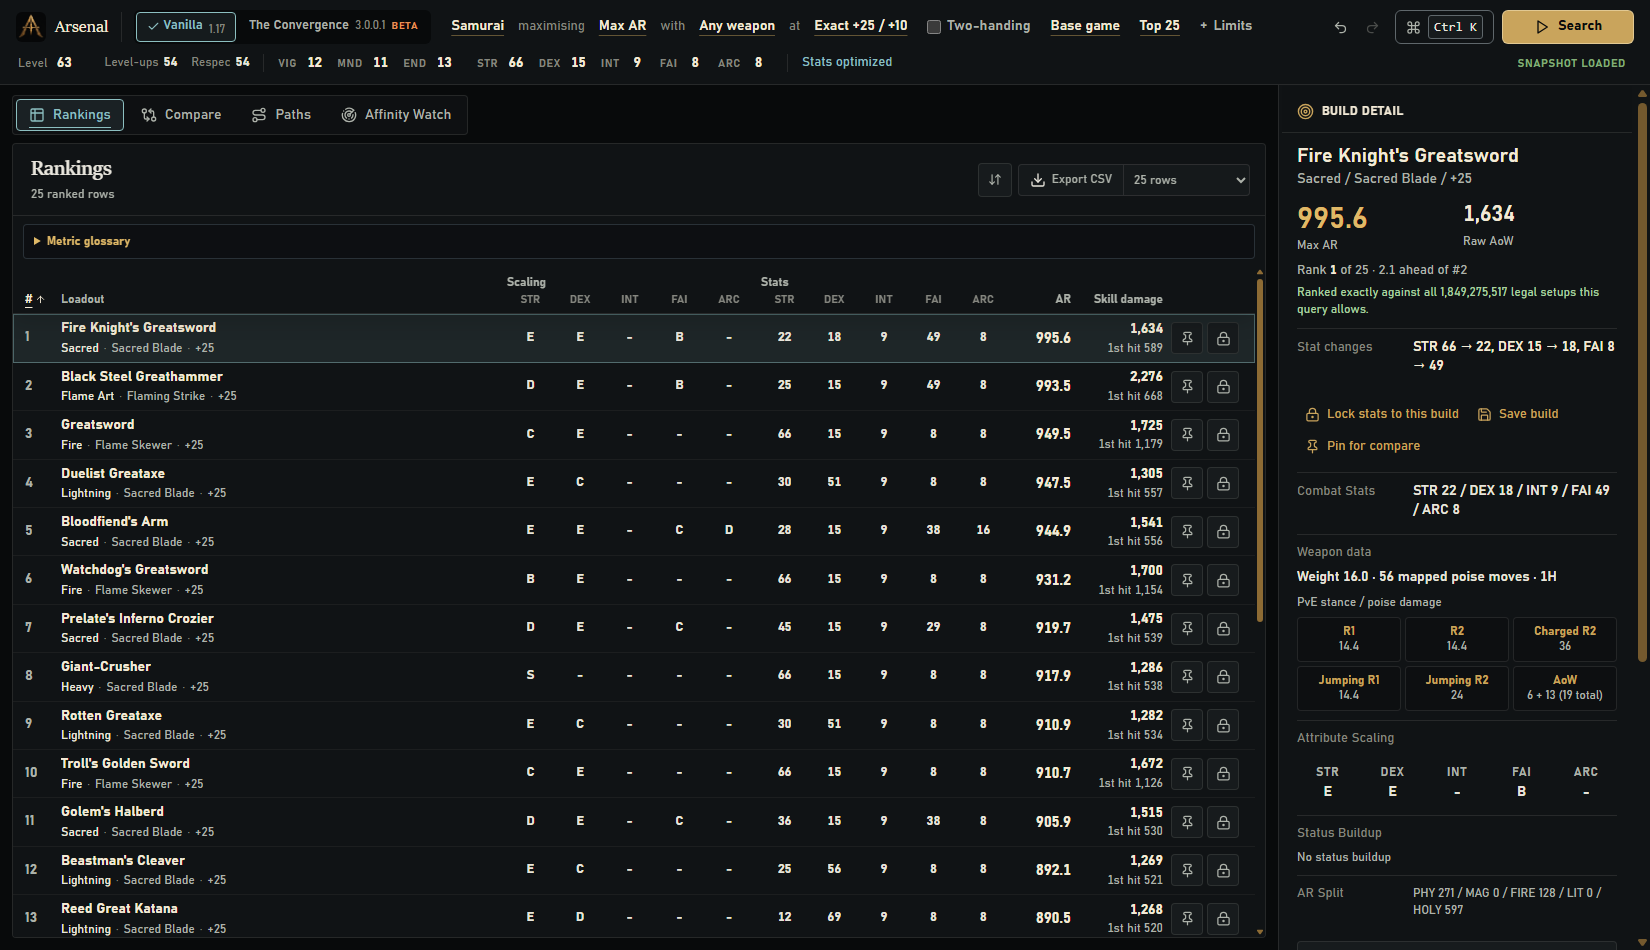
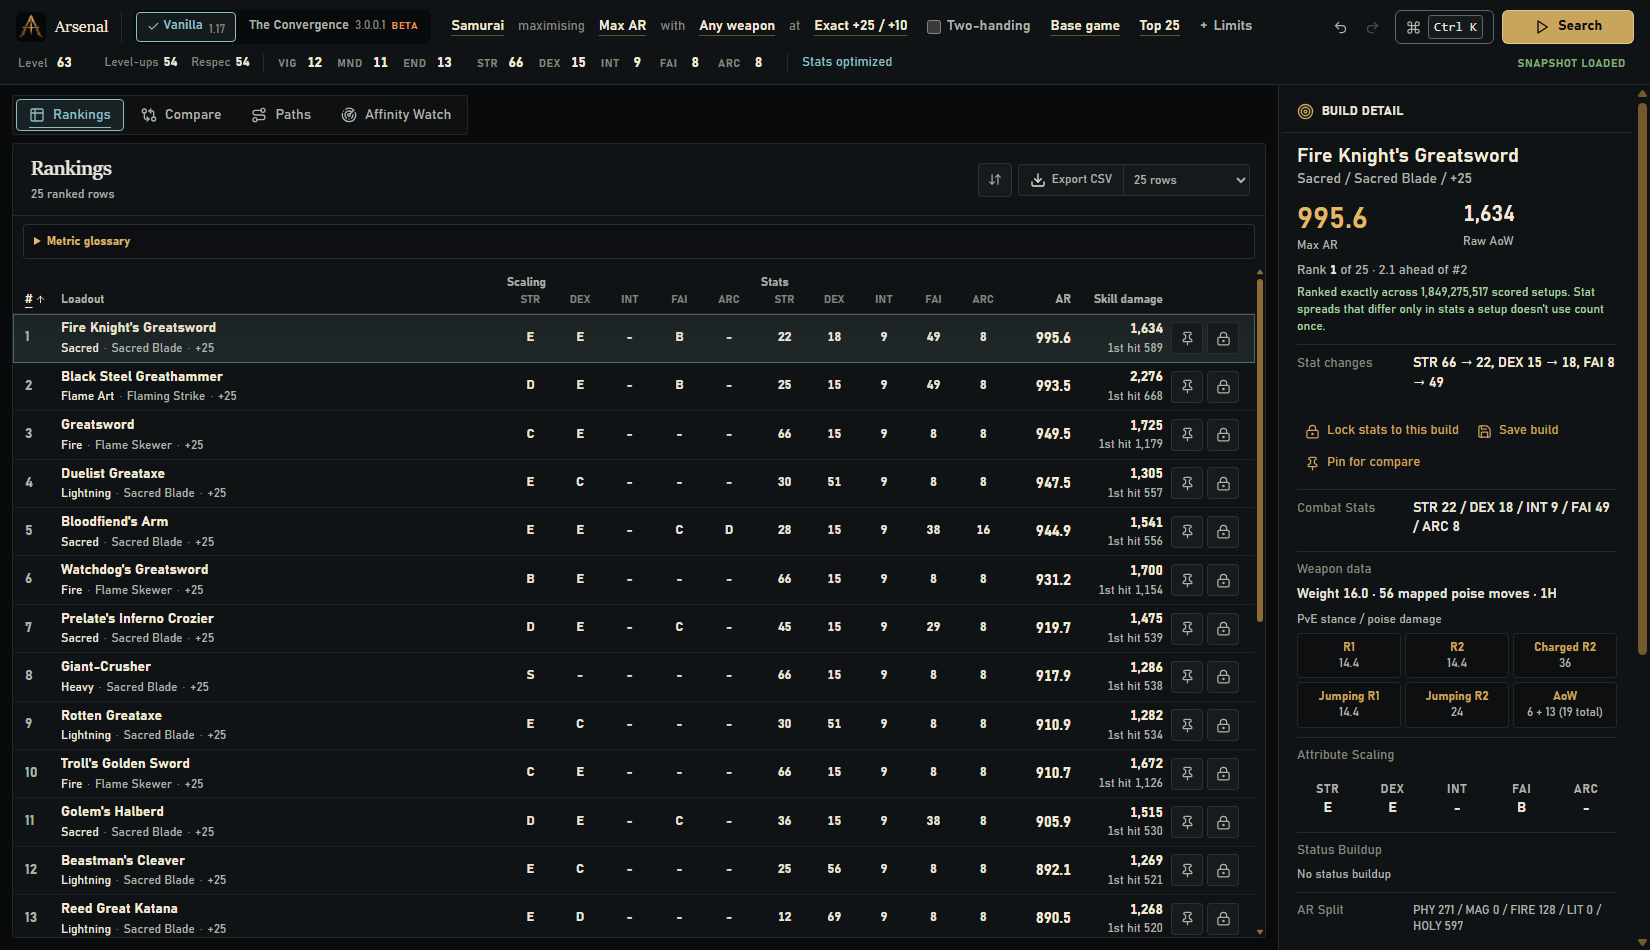
Prepare v0.17.2 with honest rank and setup-count claims (#23)
Build Detail shows a rank only for search results, so a saved build loaded on its own is no longer called best for its query. The setup count reads as scored setups and says beside it that stat spreads differing only in stats a setup doesn't use count once. Rows are matched to the previous search by upgrade as well, so unchanged results show no rank movement. Why this build? calls two builds tied only when their values print the same. A profile's query is restored after the profile it was left for failed to load, and retrying a failed load keeps the query. Prepare synchronized v0.17.2 versions, release documentation and README screenshots; the optimizer, bundled data and scoring model are unchanged.

Validation: exact-head CI 37160175955 passed all six jobs, and the release executable passed the packaged smoke test at 0.17.2.

diff --git a/apps/desktop/src/lib/state.ts b/apps/desktop/src/lib/state.ts
@@ -33,7 +33,7 @@ export interface DesktopState {
   rows: SolvedBuildDto[];
   /** Objective the current rows were ranked by; null when they did not come from a search. */
   rowsObjective: ObjectiveId | null;
-  /** Legal setups the search behind the current rows ranked; null when they did not come from one. */
+  /** Scored setups the search behind the current rows ranked; null when they did not come from one. */
   rowsSetups: number | null;
   /** The ranking a search replaced, so rows can show how far they moved. */
   rankBaseline: { objective: ObjectiveId; rows: SolvedBuildDto[] } | null;
@@ -215,7 +215,10 @@ export const useDesktopStore = create<DesktopState>()((set, get) => ({
       const profileQueries = switching
         ? { ...state.profileQueries, [state.request.profileId]: { request: state.request, lockedStatMode: state.lockedStatMode } }
         : state.profileQueries;
-      const remembered = switching ? profileQueries[profileId] : undefined;
+      // A failed load leaves no catalog; the profile it was left for still gets its query back.
+      // Loading the profile already shown is a retry, which keeps the query being edited.
+      const sameProfile = state.request.profileId === profileId;
+      const remembered = sameProfile ? undefined : profileQueries[profileId];
       const profileName = (id: string) => state.profiles.find((entry) => entry.profile.id === id)?.profile.displayName ?? id;
       return ({
       ...invalidateAllJobs(state),
@@ -224,9 +227,10 @@ export const useDesktopStore = create<DesktopState>()((set, get) => ({
       catalogStatus: "loading",
       catalogError: null,
       profileQueries,
-      lockedStatMode: remembered?.lockedStatMode ?? false,
+      lockedStatMode: remembered?.lockedStatMode ?? (sameProfile && state.lockedStatMode),
       loadoutSelectionRevision: state.loadoutSelectionRevision + 1,
-      request: remembered ? applyProfileRules(remembered.request, rules) : applyProfileRules({
+      request: remembered ? applyProfileRules(remembered.request, rules)
+        : sameProfile ? applyProfileRules(state.request, rules) : applyProfileRules({
         ...state.request,
         profileId,
         lockStr: null, lockDex: null, lockInt: null, lockFai: null, lockArc: null,
@@ -251,7 +255,7 @@ export const useDesktopStore = create<DesktopState>()((set, get) => ({
       pathSignature: null,
       affinityPayload: null,
       affinitySignature: null,
-      notices: switching ? [{
+      notices: switching || remembered ? [{
         scope: "global",
         tone: "info",
         message: remembered

diff --git a/apps/desktop/src/lib/state.test.ts b/apps/desktop/src/lib/state.test.ts
@@ -456,6 +456,29 @@ describe("desktop result lifecycle", () => {
     expect(back.notices[0].message).toBe("Restored your vanilla query. Search to rank it again.");
   });
 
+  it("restores a profile's query after the profile it was left for failed to load", () => {
+    useDesktopStore.getState().setProfiles([catalog("vanilla").dataManifest, catalog("convergence").dataManifest]);
+    useDesktopStore.setState({ catalog: catalog("vanilla"), profileQueries: {},
+      request: { ...defaultRequest, weaponName: "Uchigatana", lockDex: 40 } });
+    useDesktopStore.getState().beginProfileSwitch("convergence");
+    useDesktopStore.getState().setCatalogFailure("Convergence failed to load");
+
+    useDesktopStore.getState().beginProfileSwitch("vanilla");
+    expect(useDesktopStore.getState().request).toMatchObject({ profileId: "vanilla", weaponName: "Uchigatana", lockDex: 40 });
+  });
+
+  it("keeps the query being edited when the same profile's load is retried", () => {
+    useDesktopStore.getState().setProfiles([catalog("vanilla").dataManifest]);
+    useDesktopStore.setState({ catalog: null, profileQueries: {}, lockedStatMode: true,
+      request: { ...defaultRequest, weaponName: "Uchigatana", lockDex: 40, objective: "max_ar_plus_bleed" } });
+    useDesktopStore.getState().setCatalogFailure("Vanilla failed to load");
+
+    useDesktopStore.getState().beginProfileSwitch("vanilla");
+    const retried = useDesktopStore.getState();
+    expect(retried.request).toMatchObject({ weaponName: "Uchigatana", lockDex: 40, objective: "max_ar_plus_bleed" });
+    expect(retried.lockedStatMode).toBe(true);
+  });
+
   it("normalizes unsupported objectives when a profile catalog arrives", () => {
     useDesktopStore.setState({
       request: { ...defaultRequest, profileId: "convergence", objective: "aow_full_sequence" },

diff --git a/apps/desktop/src/lib/ranking-view.ts b/apps/desktop/src/lib/ranking-view.ts
@@ -55,14 +55,21 @@ export function rankMovements(
   aowSupported: boolean,
 ): RankMovement[] | null {
   if (!baseline) return null;
+  // The same loadout can be ranked at several upgrades. Match the upgrade first, and follow a
+  // loadout across an upgrade change only when it is ranked once in both searches.
+  const exactKey = (row: SolvedBuildDto) => `${loadoutKey(row)}\u0000${row.upgrade}`;
+  const count = (list: SolvedBuildDto[]) => list.reduce(
+    (counts, row) => counts.set(loadoutKey(row), (counts.get(loadoutKey(row)) ?? 0) + 1), new Map<string, number>());
+  const [countBefore, countNow] = [count(baseline.rows), count(rows)];
   const previous = new Map<string, { rank: number; row: SolvedBuildDto }>();
   baseline.rows.forEach((row, rank) => {
-    const key = loadoutKey(row);
-    if (!previous.has(key)) previous.set(key, { rank, row });
+    for (const key of [exactKey(row), loadoutKey(row)]) if (!previous.has(key)) previous.set(key, { rank, row });
   });
   const sameObjective = baseline.objective === objective;
   return rows.map((row, rank) => {
-    const before = previous.get(loadoutKey(row));
+    const key = loadoutKey(row);
+    const before = previous.get(exactKey(row))
+      ?? (countBefore.get(key) === 1 && countNow.get(key) === 1 ? previous.get(key) : undefined);
     if (!before) return { places: null, metricDelta: null };
     const now = metricForObjective(row, objective, aowSupported);
     const then = sameObjective ? metricForObjective(before.row, objective, aowSupported) : null;

diff --git a/apps/desktop/src/lib/build-explanation.ts b/apps/desktop/src/lib/build-explanation.ts
@@ -40,8 +40,13 @@ function runnerUpLine(row: SolvedBuildDto, runnerUp: SolvedBuildDto, objective: 
   const rival = `${runnerUp.weaponName} (${runnerUp.affinity}, +${runnerUp.upgrade})`;
   const lead = leadOver(row, runnerUp, objective, aowModelSupported);
   if (lead === null) return `The next build, ${rival}, has no comparable ${objectiveLabel(objective)} value.`;
-  if (Math.abs(lead) < 0.05) return `It ties ${rival} at the displayed precision; the exact ranking and tie order place it first.`;
   const unit = objective === "max_ar_plus_bleed" ? "bleed buildup" : objectiveLabel(objective);
+  // A tie is two values that print the same, not a small difference: 100.06 and 100.04 print apart.
+  const shown = (build: SolvedBuildDto) => fixed1(metricForObjective(build, objective, aowModelSupported) ?? 0);
+  if (shown(row) === shown(runnerUp)) {
+    return `It ties ${rival} at the displayed precision; the exact ranking and tie order place it first.`;
+  }
+  if (Math.abs(lead) < 0.05) return `It leads the next build, ${rival}, by less than 0.05 ${unit}.`;
   const [type, difference] = damageTypes
     .map(key => [key, row.ar[key] - runnerUp.ar[key]] as const)
     .reduce((largest, entry) => Math.abs(entry[1]) > Math.abs(largest[1]) ? entry : largest);

diff --git a/apps/desktop/src/features/inspector/Inspector.tsx b/apps/desktop/src/features/inspector/Inspector.tsx
@@ -111,7 +111,8 @@ export function Inspector() {
               value={aowAvailable ? compactNumber(selected.aowFullSequenceDamage) : null}
             />
           </div>
-          {rank >= 0 && !resultsStale ? (
+          {/* A loaded saved build is alone in the list without having been ranked against anything. */}
+          {rank >= 0 && !resultsStale && rowsSetups !== null ? (
             <p className="rank-context">
               Rank <strong>{rank + 1}</strong> of {rows.length}
               {rank === 0
@@ -123,7 +124,8 @@ export function Inspector() {
           ) : null}
           {rank >= 0 && !resultsStale && rowsSetups !== null ? (
             <p className="rank-proof">
-              {rowsSetups === 1 ? "The only legal setup this query allows." : `Ranked exactly against all ${rowsSetups.toLocaleString()} legal setups this query allows.`}
+              Ranked exactly across {rowsSetups.toLocaleString()} scored {rowsSetups === 1 ? "setup" : "setups"}. Stat spreads that
+              differ only in stats a setup doesn't use count once.
             </p>
           ) : null}
           {statChanges ? (

diff --git a/apps/desktop/src/lib/ranking-view.test.ts b/apps/desktop/src/lib/ranking-view.test.ts
@@ -45,6 +45,16 @@ describe("rankMovements", () => {
     ]);
   });
 
+  it("reports no movement when the same loadout is ranked again at each upgrade", () => {
+    const at = (upgrade: number, ar: number) => ({ ...row("A", ar, 0, null), upgrade });
+    const ranked = [at(3, 300), at(2, 200), at(1, 100)];
+    expect(rankMovements(ranked, { objective: "max_ar", rows: ranked }, "max_ar", true))
+      .toEqual(ranked.map(() => ({ places: 0, metricDelta: 0 })));
+    // A loadout ranked once in both searches is still followed across an upgrade change.
+    expect(rankMovements([at(4, 400)], { objective: "max_ar", rows: [at(3, 300)] }, "max_ar", true))
+      .toEqual([{ places: 0, metricDelta: 100 }]);
+  });
+
   it("omits value changes when the objective changed and has no baseline before a first search", () => {
     const after = [row("A", 600, 0, null)];
     expect(rankMovements(after, { objective: "max_ar_plus_bleed", rows: before }, "max_ar", true)).toEqual([{ places: 0, metricDelta: null }]);

diff --git a/apps/desktop/tests/preset-selection.spec.ts b/apps/desktop/tests/preset-selection.spec.ts
@@ -66,6 +66,9 @@ test("a restored explicit skill remains explicit", async ({ page }) => {
   expect(await page.evaluate(() => (window as any).restoredSelectionProbe.aborted)).toBe(false);
   await page.evaluate(() => (window as any).restoredSelectionProbe.finish());
   await expect(page.getByText(/saved results verified on current data/)).toBeVisible();
+  // A loaded build was not ranked against anything, so Build Detail claims no rank for it.
+  await expect(page.locator(".selected-build-title")).toBeVisible();
+  await expect(page.locator(".rank-context, .rank-proof")).toHaveCount(0);
   await page.getByRole("button", { name: "Search", exact: true }).click();
   await expect.poll(() => page.evaluate(() => (window as any).restoredSelectionProbe.searches.length)).toBe(1);
   expect(await page.evaluate(() => (window as any).restoredSelectionProbe.searches[0].aowName)).toBe("Seppuku");

diff --git a/apps/desktop/src/lib/build-report.test.ts b/apps/desktop/src/lib/build-report.test.ts
@@ -45,6 +45,13 @@ describe("calculation-derived explanations", () => {
     const text = explainBuild(row, defaultRequest, true, { ...row, affinity: "Heavy" }).join(" ");
     expect(text).toContain("ties Uchigatana (Heavy, +7) at the displayed precision");
   });
+
+  it("does not call scores that print differently a tie", () => {
+    const at = (total: number) => ({ ...row, ar: { ...row.ar, total } });
+    const text = explainBuild(at(100.06), defaultRequest, true, at(100.04)).join(" ");
+    expect(text).not.toContain("It ties");
+    expect(text).toContain("by less than 0.05 Max AR");
+  });
   it("does not describe unknown imported properties as damage", () => {
     const imported = { ...row, ar: { ...row.ar, privateMetric: 123 } };
     expect(explainBuild(imported, defaultRequest).join(" ")).not.toContain("privateMetric");

diff --git a/apps/desktop/tests/power-tools.spec.ts b/apps/desktop/tests/power-tools.spec.ts
@@ -228,5 +228,5 @@ test("Build Detail never calls a rounded gap an exact tie", async ({ page }) => 
   });
   await page.locator(".result-row-full").nth(1).click();
   await expect(page.locator(".rank-context")).toHaveText("Rank 2 of 4 · less than 0.05 behind #1");
-  await expect(page.locator(".rank-proof")).toHaveText("Ranked exactly against all 100 legal setups this query allows.");
+  await expect(page.locator(".rank-proof")).toHaveText("Ranked exactly across 100 scored setups. Stat spreads that differ only in stats a setup doesn't use count once.");
 });

diff --git a/apps/desktop/src-tauri/src/dto.rs b/apps/desktop/src-tauri/src/dto.rs
@@ -450,7 +450,7 @@ pub struct SearchFinishedDto {
     pub cancelled: bool,
     pub rows: Vec<SolvedBuildDto>,
     pub error: Option<String>,
-    /// Legal setups the prepared search scores; zero when preparation failed.
+    /// Setups the prepared search scores; zero when preparation failed.
     pub setups: u64,
 }
 

diff --git a/docs/release-notes/v0.17.2.md b/docs/release-notes/v0.17.2.md
@@ -1,0 +1,78 @@
+# Release v0.17.2
+
+[Home](https://github.com/FueledByRedBull/tarnisheds-arsenal/blob/v0.17.2/README.md) · [All releases](https://github.com/FueledByRedBull/tarnisheds-arsenal/blob/v0.17.2/docs/release-notes/README.md)
+
+Fixes to what Build Detail and Rankings claim about a result, and to
+profile switching.
+
+## Fixes
+
+- A saved build that is loaded on its own no longer reads "Rank 1 of 1 · best for
+  this query". It was not ranked against anything, so Build Detail shows a rank
+  only for search results.
+- The setup count introduced in v0.17.1 is now described as what it is: "Ranked
+  exactly across N scored setups", with the reason shown beside it: stat spreads
+  that differ only in stats a setup doesn't use count once. The count can
+  therefore be smaller than the number of legal allocations, and a count of one
+  no longer claims to be the only legal setup. The ranking was and remains exact.
+- Searching again with unchanged results no longer shows rank movement or damage
+  changes when the same loadout is ranked at several upgrade levels. Rows are
+  matched to the previous search by upgrade as well, and a loadout is followed
+  across an upgrade change only when it is ranked once in both searches.
+- **Why this build?** calls two builds tied at the displayed precision only when
+  their values print the same. A visible gap smaller than 0.05, such as 100.1
+  against 100.0, now reads "leads … by less than 0.05".
+- Returning to a profile restores its query even when the profile you left it for
+  failed to load, and **Retry loading** on a failed profile keeps the query you
+  were editing. Before, equipment, objective, and stat locks were reset.
+
+## Data compatibility and limits
+
+The optimizer, the bundled data, and the scoring model are unchanged: snapshot
+schema **6** and runtime model **`aow-routes-effects-v9/exact-v3`**, so builds
+saved with v0.17.1 load with their results. The game profiles remain Vanilla
+**1.17** and Convergence **3.0.0.1**. Convergence retains its documented
+experimental feature limits.
+
+AR and status values do not include enemy defenses, resistance growth, or status
+proc damage. Sequence totals assume the modeled contacts connect. War Cry and
+Barbaric Roar's attack-power self-buffs are not modeled. This release does not
+claim live in-game verification of every skill.
+
+## Verification
+
+Each fix has a regression test. The release source passed 241 core tests, 61
+backend tests, 209 frontend unit tests, 166 browser tests, 17 Node contract
+checks, and 7 native-responsiveness metric tests; release-mode benchmarks, which
+are opt-in, were not run. Frontend lint and the production build, formatting for
+the backend crate, 122 Python extraction and validation-tool tests, and release
+metadata validation also passed. Five packaging tests that need PowerShell 7 were
+skipped locally and run in CI, which also runs Clippy and formatting for both
+Rust crates.
+
+The release executable passed the packaged WebView2 smoke test with the version
+bump. The optimizer and the bundled data are unchanged from v0.17.0, so the
+external reference comparisons recorded in the
+[v0.17.0 notes](https://github.com/FueledByRedBull/tarnisheds-arsenal/blob/v0.17.2/docs/release-notes/v0.17.0.md#verification)
+were not rerun.
+
+Versioned packages must pass the release workflow's package checks before
+publication. Installation, upgrade, and uninstall on a clean Windows machine were
+not exercised. The release build report records the final source commit, package
+checks, and signing status.
+
+## Downloads
+
+These versioned links are prepared for publication and become available when
+v0.17.2 is published. Until then, use the
+[latest published release](https://github.com/FueledByRedBull/tarnisheds-arsenal/releases/latest).
+
+| Download | Use it for |
+| --- | --- |
+| [Windows installer](https://github.com/FueledByRedBull/tarnisheds-arsenal/releases/download/v0.17.2/TarnishedsArsenal_0.17.2_x64_en-US.msi) | Standard installation; downloads WebView2 if needed |
+| [Portable executable](https://github.com/FueledByRedBull/tarnisheds-arsenal/releases/download/v0.17.2/TarnishedsArsenal_0.17.2_portable.exe) | Run directly with WebView2 already installed |
+| [Portable archive](https://github.com/FueledByRedBull/tarnisheds-arsenal/releases/download/v0.17.2/TarnishedsArsenal_0.17.2.zip) | Compressed portable app and documentation; MSI downloaded separately |
+| [SHA-256 checksums](https://github.com/FueledByRedBull/tarnisheds-arsenal/releases/download/v0.17.2/TarnishedsArsenal_0.17.2_SHA256SUMS.txt) | Verify the downloaded files |
+| [Build report](https://github.com/FueledByRedBull/tarnisheds-arsenal/releases/download/v0.17.2/TarnishedsArsenal_0.17.2_build-report.json) | Source commit, profile identities, and signing status |
+
+[Full changelog](https://github.com/FueledByRedBull/tarnisheds-arsenal/compare/v0.17.1...v0.17.2)

diff --git a/README.md b/README.md
@@ -24,7 +24,7 @@ comparisons and progression previews.
 [![Tauri 2](https://img.shields.io/badge/Tauri_2-101315?style=flat-square&logo=tauri&logoColor=c9a45c)](apps/desktop/src-tauri)
 [![React 19](https://img.shields.io/badge/React_19-101315?style=flat-square&logo=react&logoColor=c9a45c)](apps/desktop/src)
 
-[What’s new in v0.17.1](docs/release-notes/v0.17.1.md)
+[What’s new in v0.17.2](docs/release-notes/v0.17.2.md)
 · [Your first build](#your-first-build)
 · [Documentation](#documentation)
 
@@ -38,7 +38,7 @@ damage, with the selected build’s full breakdown on the right.
 ## Download
 
 Choose an asset from the [latest published release](https://github.com/FueledByRedBull/tarnisheds-arsenal/releases/latest).
-The [v0.17.1 notes](docs/release-notes/v0.17.1.md) include versioned downloads,
+The [v0.17.2 notes](docs/release-notes/v0.17.2.md) include versioned downloads,
 calculation changes, and verification limits.
 
 | Choose | Best for |
@@ -65,7 +65,7 @@ needs internet access if that runtime is missing.
    Press **Ctrl+K** to type a change instead, such as `str 40`, `uchigatana`,
    `+20`, `top 10`, or `level 60` to plan where your next levels go.
 3. Press **Search**, then select a row to inspect its damage, scaling, and stats.
-   Build Detail shows how far the top result leads the next one, how many legal
+   Build Detail shows how far the top result leads the next one, how many scored
    setups the search ranked, and which of your entered stats the build changes.
 4. Pin another result for **Compare** (or press **P** on a focused row), trace
    future levels in **Paths**, or explore affinity crossover points in
@@ -201,7 +201,7 @@ Choose a guide for the task at hand:
 
 | I want to… | Read |
 | --- | --- |
-| See what changed in **v0.17.1** | [Release notes](docs/release-notes/v0.17.1.md) · [All versions](docs/release-notes/README.md) |
+| See what changed in **v0.17.2** | [Release notes](docs/release-notes/v0.17.2.md) · [All versions](docs/release-notes/README.md) |
 | Understand supported mechanics and limitations | [Model reference](docs/model-reference.md) |
 | Find components and trace a calculation | [Optimizer overview](docs/design/optimizer-overview.md) |
 | Inspect the exact ranking contract and proof | [Optimizer mathematics](docs/design/optimizer-math.md) |
